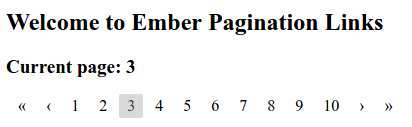
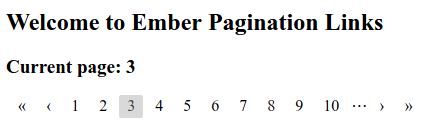
Update README to document ellipses

diff --git a/README.md b/README.md
@@ -19,7 +19,7 @@ other information should be displayed.
 
 ## Examples
 
-### Defaults
+### Default appearance
 
 ![Sample taken from dummy test app](screenshots/test-app.png)
 
@@ -74,8 +74,15 @@ to configure it:
 * `prevPageIcon` (string, default `"‹"`): Text of the link to the previous page.
 * `nextPageIcon` (string, default `"›"`): Text of the link to the next page.
 * `lastPageIcon` (string, default `"»"`): Text of the link to the final page.
+* `ellipsisIcon` (string, default `"⋯"`): Text to display when an ellipsis is
+                                           required.
 * `showFirstAndLast` (boolean, default `true`): Whether to include links to the
                                                 first and last pages.
+* `showEllipses` (boolean, default `false`): Whether to show an ellipsis icon
+                                             between the ends of the page list
+                                             and the naviation icons, when the
+                                             first or last page is not included
+                                             on the list. 
 * `overflow` (string, default `undefined`): Behaviour of `currentPage` when it
                                             becomes greater than `lastPage`.
                                             See *Overflow behaviour* below.
@@ -131,6 +138,8 @@ denote their purpose:
 * `a.pagination-links-next`, link to the next page.
 * `a.pagination-links-page`, link to a specific page number.
 * `a.pagination-links-current`, the current page.
+* `span.pagination-links-ellipsis`, gap between either end of the list and the
+                                    corresponding navigation arrows.
 
 Additionally, the `first`, `last`, `prev` and `next` links may have the class
 `.disabled` in the case that they are not clickable (for instance, you cannot
